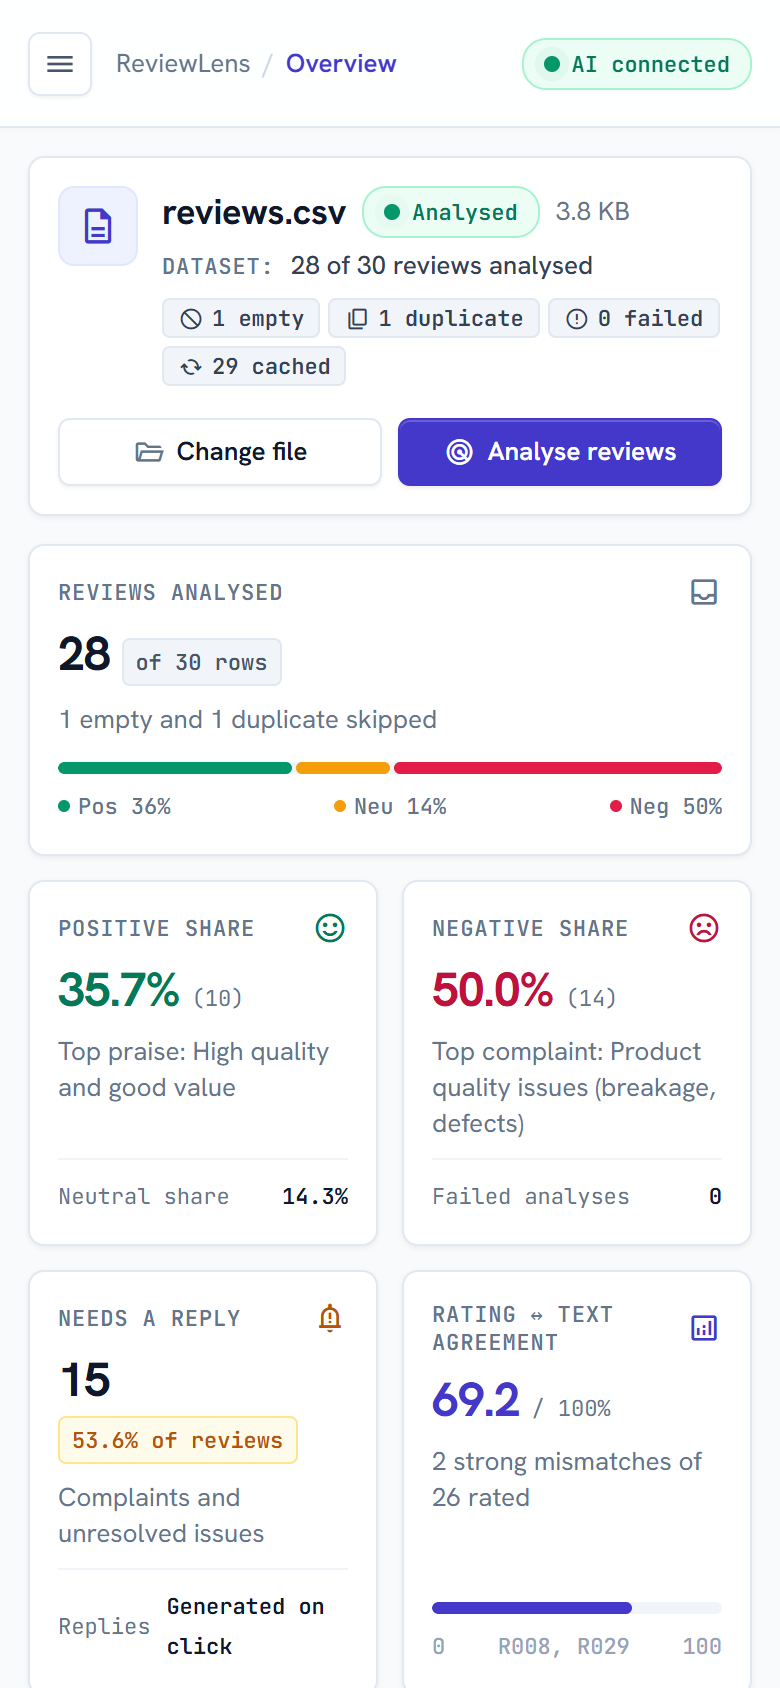
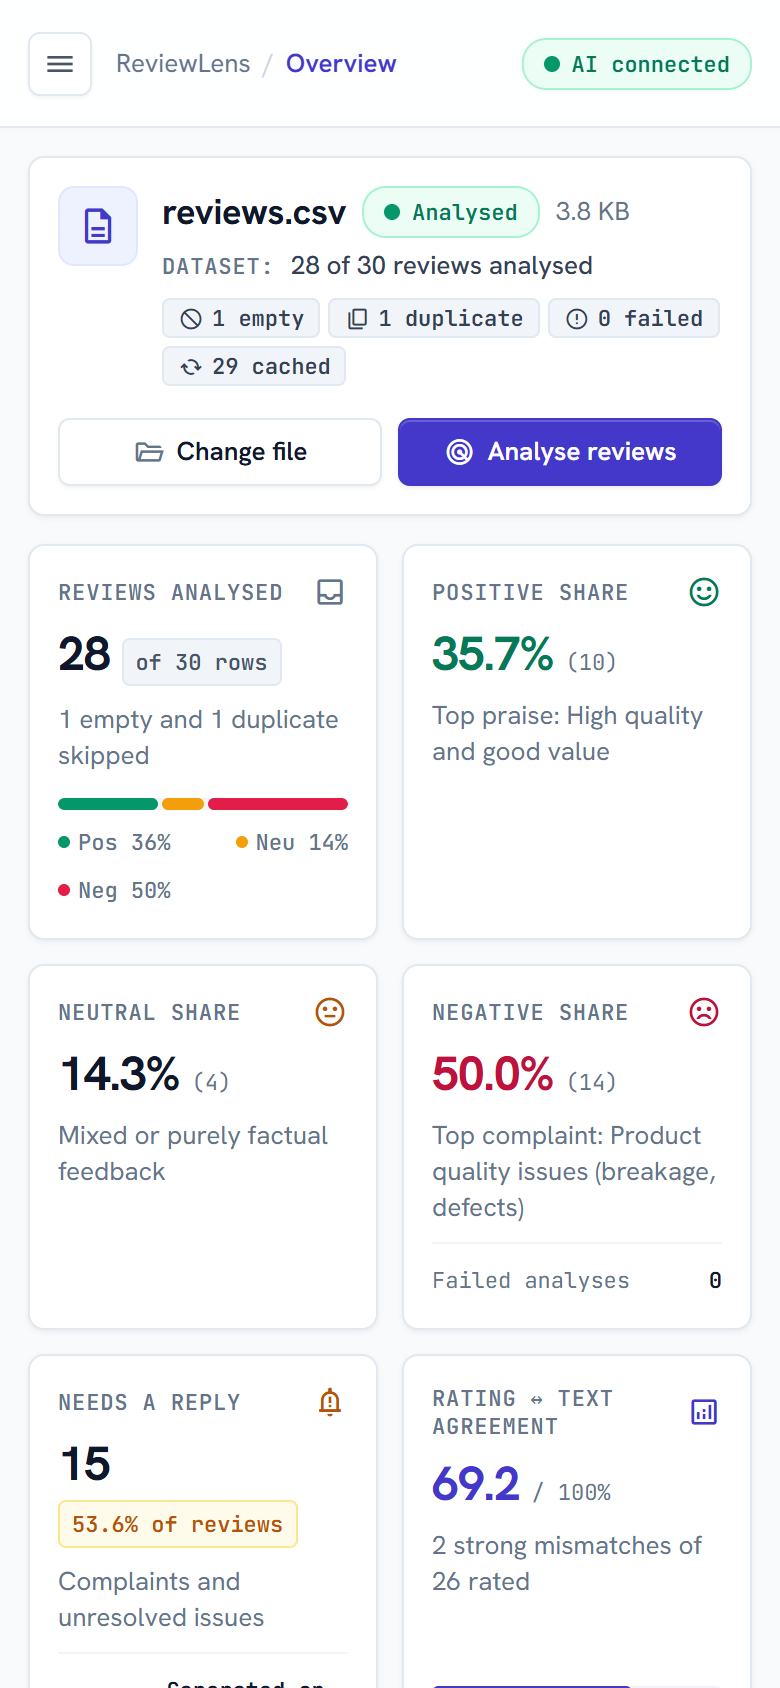
Add a Neutral share summary card
The brief asks for % positive / neutral / negative cards; neutral was
only shown in a legend. Six cards now lay out 6, 3+3 or 2+2+2 by
width, the sentiment legend wraps on phones, and the README
screenshots are refreshed.

diff --git a/client/src/styles.css b/client/src/styles.css
@@ -992,7 +992,7 @@ code {
 /* ---------- KPI cards ---------- */
 .kpi-grid {
   display: grid;
-  grid-template-columns: repeat(5, minmax(0, 1fr));
+  grid-template-columns: repeat(6, minmax(0, 1fr));
   gap: 12px;
 }
 
@@ -1138,8 +1138,9 @@ code {
 
 .legend {
   display: flex;
+  flex-wrap: wrap;
   justify-content: space-between;
-  gap: 8px;
+  gap: 4px 8px;
   margin-top: 6px;
   font-family: var(--mono);
   font-size: 11px;
@@ -1770,21 +1771,14 @@ tbody tr:hover {
 
 /* ---------- Responsive ---------- */
 
-/* Large laptops: KPI cards wrap to 3 + 2 */
-@media (max-width: 1280px) {
+/* Laptops: KPI cards wrap to 3 + 3 */
+@media (max-width: 1440px) {
   .kpi-grid {
-    grid-template-columns: repeat(6, minmax(0, 1fr));
+    grid-template-columns: repeat(3, minmax(0, 1fr));
   }
+}
 
-  .kpi-grid > * {
-    grid-column: span 2;
-  }
-
-  .kpi-grid > :nth-child(4),
-  .kpi-grid > :nth-child(5) {
-    grid-column: span 3;
-  }
-
+@media (max-width: 1280px) {
   .feature-grid {
     grid-template-columns: repeat(2, minmax(0, 1fr));
   }
@@ -1940,16 +1934,6 @@ tbody tr:hover {
     grid-template-columns: repeat(2, minmax(0, 1fr));
   }
 
-  .kpi-grid > *,
-  .kpi-grid > :nth-child(4),
-  .kpi-grid > :nth-child(5) {
-    grid-column: span 1;
-  }
-
-  .kpi-grid > :first-child {
-    grid-column: span 2;
-  }
-
   .scope-info {
     align-items: flex-start;
   }
@@ -1988,9 +1972,5 @@ tbody tr:hover {
   .kpi-grid,
   .run-stats dl {
     grid-template-columns: 1fr;
-  }
-
-  .kpi-grid > * {
-    grid-column: span 1 !important;
   }
 }

diff --git a/client/src/components/SummaryCards.jsx b/client/src/components/SummaryCards.jsx
@@ -40,7 +40,16 @@ export default function SummaryCards({ summary, agreement, themes }) {
           <span className="kpi-count">({sentiment.positive.count})</span>
         </div>
         <p className="kpi-desc">{topPraise ? `Top praise: ${topPraise}` : 'No praise themes yet'}</p>
-        <FootRow label="Neutral share" value={`${sentiment.neutral.pct}%`} />
+      </Kpi>
+
+      <Kpi label="Neutral share" icon="sentiment_neutral" iconTone="warn">
+        <div className="kpi-value-row">
+          <span className="kpi-value">
+            <CountUp value={sentiment.neutral.pct} decimals={1} suffix="%" />
+          </span>
+          <span className="kpi-count">({sentiment.neutral.count})</span>
+        </div>
+        <p className="kpi-desc">Mixed or purely factual feedback</p>
       </Kpi>
 
       <Kpi label="Negative share" icon="sentiment_dissatisfied" iconTone="negative">

diff --git a/client/src/App.jsx b/client/src/App.jsx
@@ -179,7 +179,7 @@ function LoadingState() {
         </AnimatePresence>
       </div>
       <div className="kpi-grid">
-        {Array.from({ length: 5 }, (_, i) => (
+        {Array.from({ length: 6 }, (_, i) => (
           <div key={i} className="skeleton" />
         ))}
       </div>
